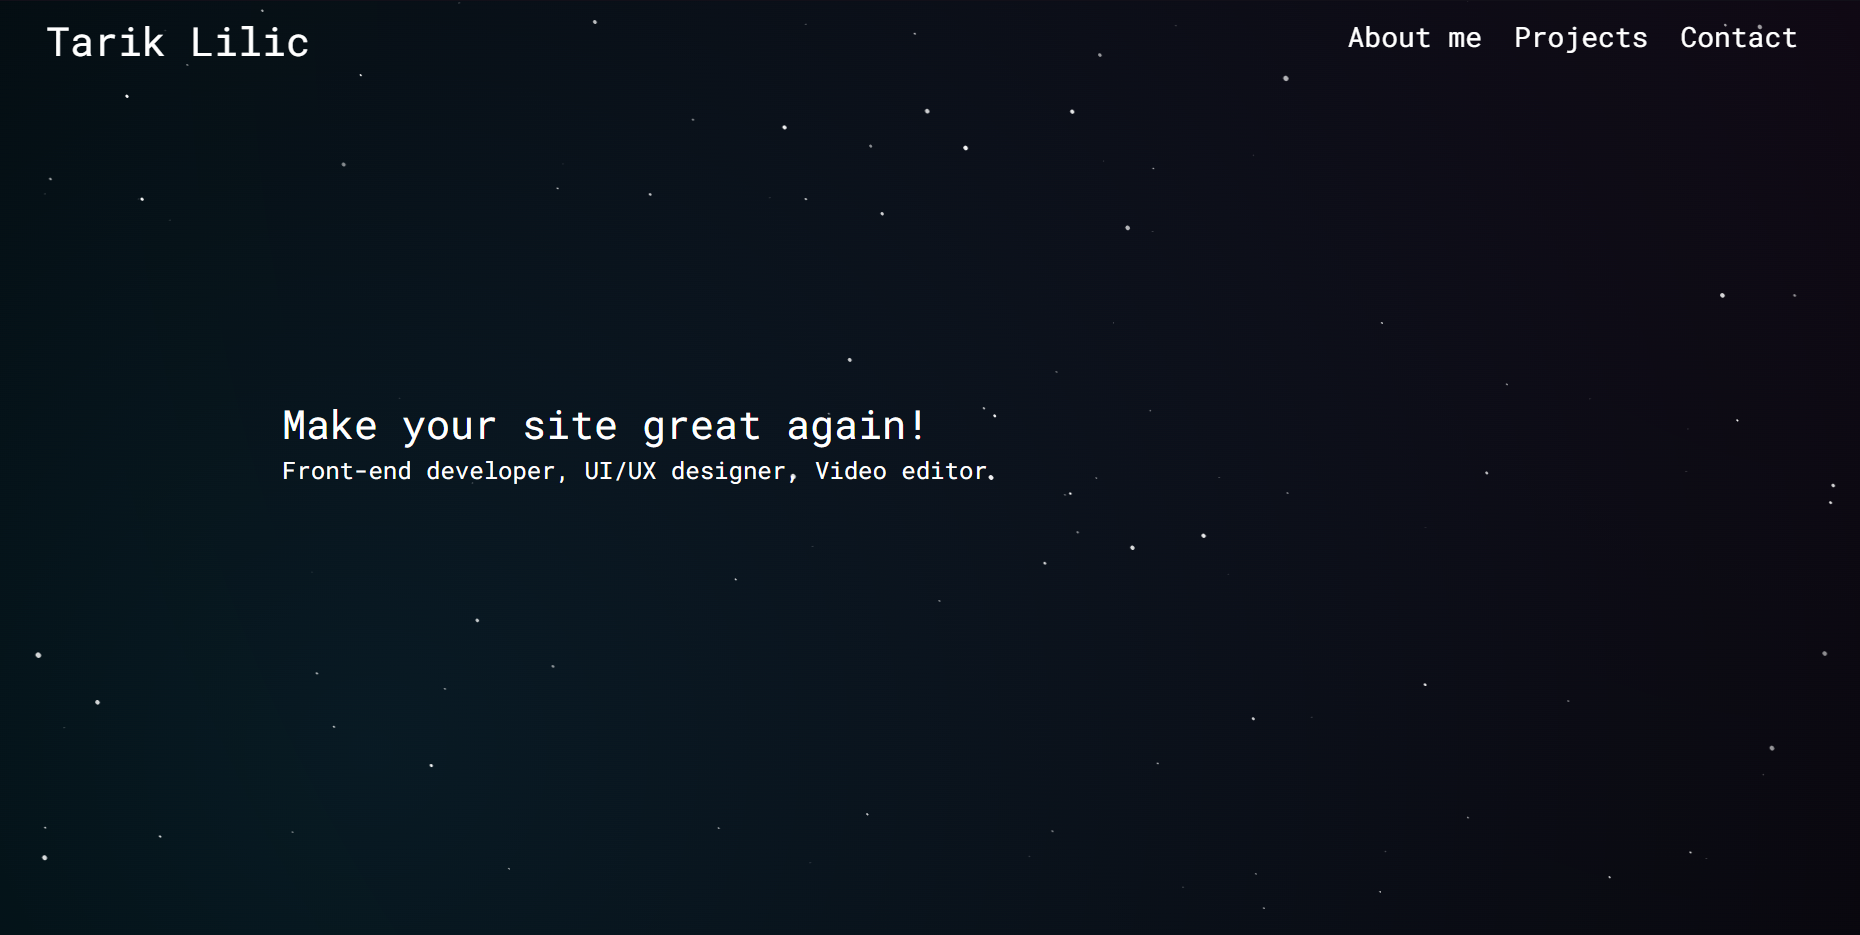
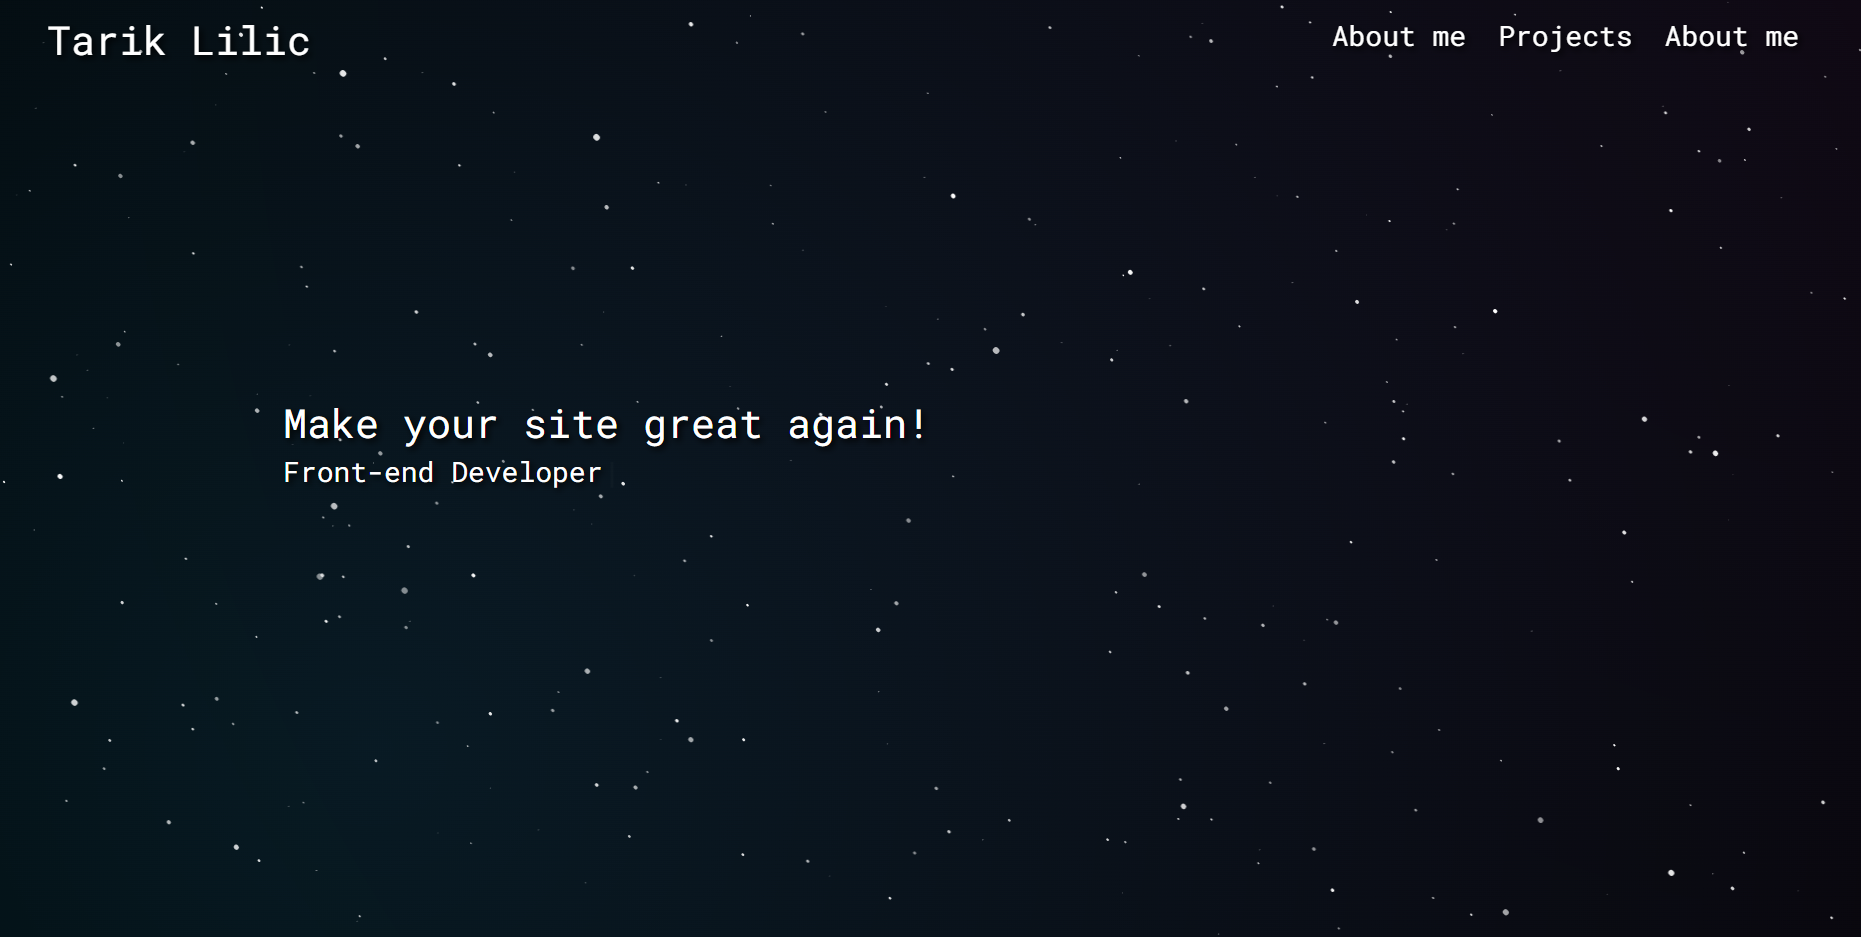
resposive small device

Changed region(s): [[0.1559, 0.4342, 0.5301, 0.5273], [0.7172, 0.031, 0.9667, 0.062], [0.0312, 0.031, 0.1871, 0.062]]

diff --git a/index.html b/index.html
@@ -20,7 +20,7 @@
         <canvas>
         </canvas>
         <nav class="navbar navbar-expand-lg bg-transparent">
-            <div class="text-white h1 ms-lg-5 ms-3 mt-2" href="#">Tarik Lilic</div>
+            <div class="text text-white h1 ms-lg-5 ms-3 mt-2" href="#">Tarik Lilic</div>
             <button class="navbar-toggler" type="button" data-bs-toggle="collapse"
                 data-bs-target="#navbarSupportedContent" aria-controls="navbarSupportedContent" aria-expanded="false"
                 aria-label="Toggle navigation">
@@ -29,15 +29,18 @@
             <div class="collapse navbar-collapse" id="navbarSupportedContent">
                 <ul class="navbar-nav me-5 ms-auto">
                     <li class="nav-item active">
-                        <div class="text-white h3 ms-3 me-3"><a class="text-white" href="#aboutmesection">About me</a>
+                        <div class="text text-white h3 ms-3 me-3"><a class="text-white" href="#aboutmesection">About
+                                me</a>
                         </div>
                     </li>
                     <li class="nav-item">
-                        <div class="text-white h3 ms-3 me-3"><a class="text-white" href="#projectssection">Projects</a>
+                        <div class="text text-white h3 ms-3 me-3"><a class="text-white"
+                                href="#projectssection">Projects</a>
                         </div>
                     </li>
                     <li class="nav-item">
-                        <div class="text-white h3 ms-3 me-3"><a class="text-white" href="#contactsection">About me</a>
+                        <div class="text text-white h3 ms-3 me-3"><a class="text-white" href="#contactsection">About
+                                me</a>
                         </div>
                     </li>
                 </ul>
@@ -46,13 +49,13 @@
 
         <div class="container text-white">
             <div class="row">
-                <div class="col h1" id="slogan">
+                <div class="text col h1" id="slogan">
                     Make your site great again!
                 </div>
             </div>
             <div class="row">
                 <div class="col h4">
-                    <h3><span id="autoWrite"></span></h3>
+                    <h3><span class="text" id="autoWrite"></span></h3>
                 </div>
             </div>
         </div>
@@ -60,57 +63,55 @@
     <div id="aboutmesection" style="height: 100vh;" class="text-white text-center align-items-center">
         <div class="container">
             <div class="row">
-                <div class="col h1 mt-2 mb-5">
+                <div class="text col mb-2 h1 mt-0 mt-lg-2 mb-lg-5">
                     About Me
                 </div>
             </div>
-            <div class="row mt-4 align-items-center">
-                <div class="col">
-                    <div class="h3">Hi, I'm Tarik Lilic</div>
+            <div class="row mt-2 mt-lg-4 align-items-center">
+                <div class="text col aboutmetext mb-3 mb-lg-0">
+                    <div class="text introductiontext">Hi, I'm Tarik Lilic</div>
                     <br>
-                    Lorem Ipsum is simply dummy text of the printing and typesetting industry. Lorem Ipsum has been
-                    the
-                    industry's standard dummy text ever since the 1500s, when an unknown printer took a galley of
-                    type
-                    and scrambled it to make a type specimen book. It has survived not only five centuries, but also
-                    the
-                    leap into electronic typesetting, remaining essentially unchanged. It was popularised in the
-                    1960s
-                    with the release of Letraset sheets containing Lorem Ipsum passages, and more recently with
-                    desktop
-                    publishing software like Aldus PageMaker including versions of Lorem Ipsum.
+                    I am currently a third year student at International Burch University in Sarajevo, department of
+                    Infomation Technology.
+                    I was always interested in technology and how things work. I love learning about tech, implementing
+                    new ideas and
+                    ways to solve a problem. I am highly motivated, flexible and adaptable to new challenges and
+                    projects.
+                    I have found my passion in web development, since I find a way to truly express myself through fun
+                    and interractive websites.
+
                 </div>
-                <div class="col mb-5">
+                <div class="col mb-0 mb-lg-5">
                     <img id="me" src="images/tarik.png" alt="me" style="max-width: 400px; max-height: 450px;">
                 </div>
             </div>
-            <div class="row mt-5 mb-5 align-items-center">
-                <div class="col h3">
+            <div class="row mt-3 mt-lg-5 mb-3 mb-lg-5 align-items-center">
+                <div class="text introductiontext col h3">
                     What I like to work with
                 </div>
             </div>
-            <div class="row h3 mt-5 mb-3">
-                <div class="col-4 mt-3 mb-3">
+            <div class="row h3 mt-2 mt-lg-5 mb-0 mb-lg-3">
+                <div class="text workicons col-4 mt-3 mb-3">
                     <i class='icons bx bxl-javascript'></i>
                     Javascript
                 </div>
-                <div class="col-4 mt-3 mb-3">
+                <div class="text workicons col-4 mt-3 mb-3">
                     <i class='icons bx bxl-html5'></i>
                     HTML
                 </div>
-                <div class="col-4 mt-3 mb-3">
+                <div class="text workicons col-4 mt-3 mb-3">
                     <i class='icons bx bxl-css3'></i>
                     CSS
                 </div>
-                <div class="col mt-3 mb-3">
+                <div class="text workicons col mt-3 mb-3">
                     <i class='icons bx bxs-data'></i>
                     MySQL
                 </div>
-                <div class="col mt-3 mb-3">
+                <div class="text workicons col mt-3 mb-3">
                     <i class='icons bx bxl-adobe'></i>
                     Adobe Photoshop
                 </div>
-                <div class="col mt-3 mb-3">
+                <div class="text workicons col mt-3 mb-3">
                     <i class='icons bx bxs-video-plus'></i>
                     Vegas Pro
                 </div>
@@ -120,24 +121,25 @@
     <div id="projectssection" class="text-white text-center align-items-center" style="height: 100%;">
         <div class="container">
             <div class="row">
-                <div class="col h1 mt-2 mb-2">
+                <div class="text mb-2 h1 mt-0 mt-lg-2 mb-lg-5">
                     Projects
                 </div>
             </div>
-            <div class="row mt-5 mb-5 align-items-center">
-                <div class="col h3">
+            <div class="row mt-2 mt-lg-5 mb-2 mb-lg-5 align-items-center">
+                <div class="text introductiontext col h3">
                     Some of the projects I worked on
                 </div>
             </div>
-            <div class="row mt-5">
+            <div class="row mt-2 mt-lg-5">
                 <div class="col">
-                    <div class="carousel"
-                        data-flickity='{ "autoPlay": 2000, "wrapAround": true, "pauseAutoPlayOnHover": true }'>
+                    <div class="carousel" data-flickity='{ "autoPlay": 2000, "pauseAutoPlayOnHover": true }'>
                         <div class="carousel-cell"
-                            style="background-image: url('images/stattrack.png'); background-size: cover; background-position: center;">
+                            style="background-image: url('images/stattrack.png'); background-size: cover; background-position: center;"
+                            onclick="window.open('https://github.com/tariklilic/StatTrack', '_blank')">
                         </div>
                         <div class="carousel-cell"
-                            style="background-image: url('images/personalwebpage.png'); background-size: cover; background-position: center;">
+                            style="background-image: url('images/personalwebpage.png'); background-size: cover; background-position: center;"
+                            onclick="window.open('https://github.com/tariklilic/PortfolioWebsite', '_blank')">
                         </div>
                         <div class="carousel-cell"
                             style="background-image: url('images/freelance.jpg'); background-size: cover; background-position: center;">
@@ -150,43 +152,43 @@
     <div id="contactsection" class="text-white text-center align-items-center" style="height: 100%;">
         <div class="container">
             <div class="row">
-                <div class="col h1 mt-2 mb-5">
+                <div class="text col h1 mt-2 mb-2 mb-lg-5">
                     Contact me
                 </div>
             </div>
             <div class="row">
-                <div class="projects col h3 mb-5">
+                <div class="text projects col h3 mb-3 mb-lg-5">
                     Check out my projects, proffessional portfolio and socials
                 </div>
             </div>
-            <div class="row mt-5">
-                <div class="col h4 mt-5 mb-2">
+            <div class="row mt-2 mt-lg-5">
+                <div class="mysocial col-6 col-lg h4 mt-2 mt-lg-5 mb-2">
                     <a target="_blank" href="https://www.linkedin.com/in/tarik-lilic-638a5822b/">
                         LinkedIn <br>
                         <i class='mt-5 social-icons bx bxl-linkedin-square'></i>
                     </a>
                 </div>
-                <div class="col h4 mt-5 mb-2">
+                <div class="mysocial col-6 col-lg h4 mt-2 mt-lg-5 mb-2">
                     <a target="_blank" href="https://github.com/tariklilic">
                         Github <br>
                         <i class='mt-5 social-icons bx bxl-github'></i>
                     </a>
                 </div>
-                <div class="col h4 mt-5 mb-2">
+                <div class="mysocial col-6 col-lg h4 mt-2 mt-lg-5 mb-2">
                     <a target="_blank" href="https://www.facebook.com/tarik.lilic">
                         Facebook <br>
                         <i class='mt-5 social-icons bx bxl-facebook-square'></i>
                     </a>
                 </div>
-                <div class="col h4 mt-5 mb-2">
+                <div class="mysocial col-6 col-lg h4 mt-2 mt-lg-5 mb-2">
                     <a target="_blank" href="https://www.instagram.com/tariklilic/">
                         Instagram <br>
                         <i class='mt-5 social-icons bx bxl-instagram'></i>
                     </a>
                 </div>
             </div>
-            <div class="mb-2" id="foot">
-                <div class="text-center">
+            <div class="text mb-0 mb-lg-2" id="foot">
+                <div class="text text-center">
                     Copyright 2022 | Made by Tarik Lilic | tariklilic12@gmail.com
                 </div>
             </div>

diff --git a/style.css b/style.css
@@ -26,6 +26,60 @@ canvas {
     margin-top: 34vh;
 }
 
+.text {
+    text-shadow: 3px 3px 6px #000000;
+}
+
+#me {
+    text-shadow: 6px 6px 12px #000000;
+}
+
+@keyframes scaleIn {
+    0% {
+        scale: 1;
+    }
+
+    100% {
+        scale: 1.15;
+    }
+}
+
+@keyframes scaleInSocial {
+    0% {
+        scale: 1;
+    }
+
+    100% {
+        scale: 1.30;
+    }
+}
+
+@keyframes popup {
+    from {
+        transform: scale(1.0);
+        box-shadow: 0 0 0 100vmax rgba(0, 0, 0, 0.0);
+    }
+
+    to {
+        transform: scale(1.15);
+        box-shadow: 0 0 0 100vmax rgba(0, 0, 0, 0.3);
+    }
+}
+
+.nav-item:hover {
+    animation: scaleIn 0.5s ease-in-out forwards;
+}
+
+.carousel:hover,
+#me:hover {
+    animation: scaleIn 1s ease-in-out forwards;
+    animation: popup 0.2s ease-in-out forwards;
+}
+
+.mysocial:hover {
+    animation: scaleInSocial 0.5s ease-in-out forwards;
+}
+
 .projects {
     margin-top: 12vh;
 }
@@ -81,8 +135,54 @@ a:hover {
 
 
 @media only screen and (max-width: 600px) {
+    @keyframes scaleInMob {
+        0% {
+            scale: 1;
+        }
+
+        100% {
+            scale: 1.07;
+        }
+    }
+
+    .nav-item:hover {
+        animation: scaleInMob 0.5s ease-in-out forwards;
+    }
+
     #me {
         width: 250px;
         height: 275px;
     }
+
+    .aboutmetext {
+        font-size: 10px;
+    }
+
+    .introductiontext {
+        font-size: 13px;
+    }
+
+    .workicons,
+    .icons {
+        font-size: 12px;
+    }
+
+    .carousel-cell {
+        width: 100%;
+        height: 550px;
+        margin-right: 5px;
+        background: #8C8;
+        border-radius: 5px;
+        counter-increment: gallery-cell;
+    }
+
+    .projects {
+        margin-top: 9vh;
+        font-size: 17px;
+    }
+
+    .mysocial {
+        font-size: 15px;
+    }
+
 }
